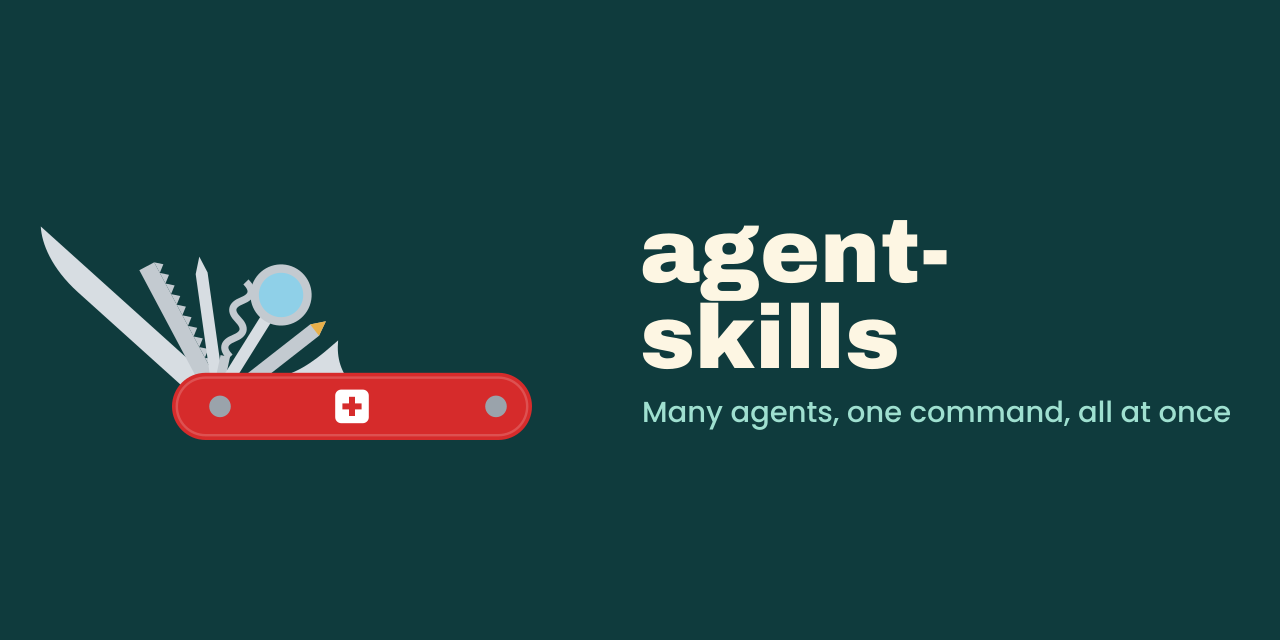
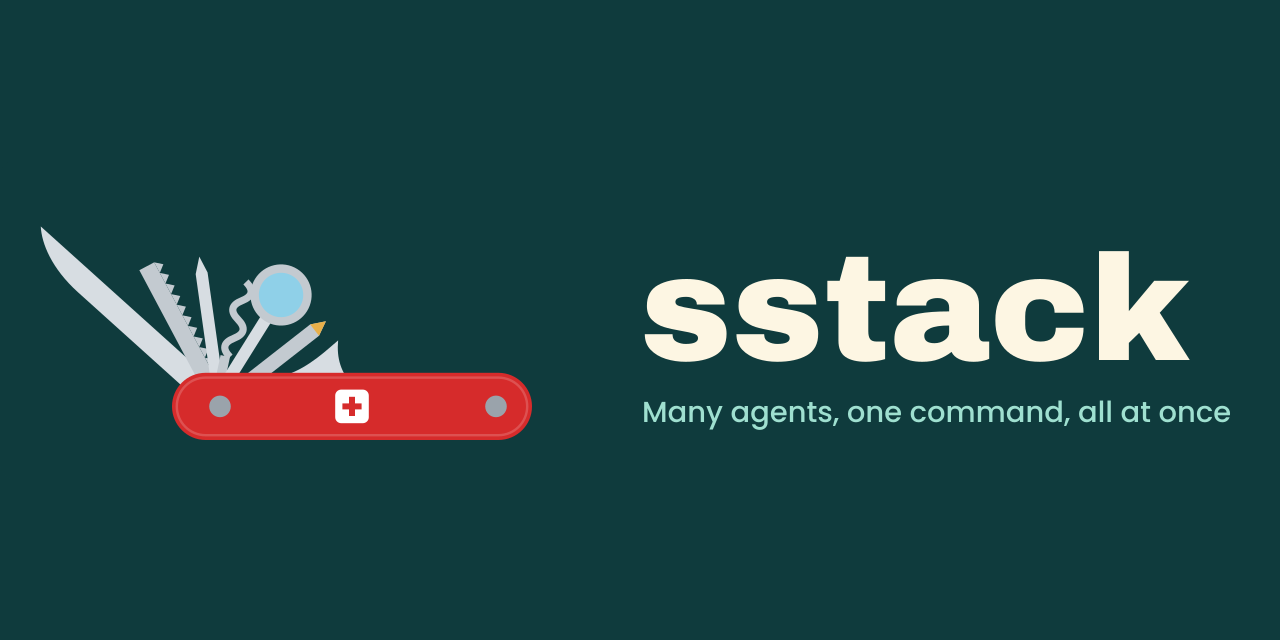
docs: rename the project to sstack and point every link at the new home
The repository moved from GeiserX/agent-skills to GeiserX/sstack. Pages project sites do not redirect, so the site URL, repo links, banner wordmark and social preview all follow the new name. The related page records the old names and links the skills shipped with akou and unsent.

Changed region(s): [[0.5, 0.3438, 0.9375, 0.5938]]

diff --git a/docs/stylesheets/theme.css b/docs/stylesheets/theme.css
@@ -1,6 +1,6 @@
 /* docs/stylesheets/theme.css: the site takes its colours from the banner.
  *
- * banner.svg draws "agent-skills" in #fdf6e3 on a #0f3b3d plate, the caption
+ * banner.svg draws "sstack" in #fdf6e3 on a #0f3b3d plate, the caption
  * in #9fe0d0, and the mark as a pocket knife with a #d62b2b handle. The
  * header and the dark page use the plate colour, links and card borders the
  * caption colour, and the one filled button the handle red. zensical.toml sets
@@ -107,7 +107,7 @@
 
 /* The home page keeps an H1 for search, screen readers and the browser tab.
    The banner under it already shows the name, so the H1 is hidden visually.
-   Use it as: # agent-skills { .as-visually-hidden } */
+   Use it as: # sstack { .as-visually-hidden } */
 .md-typeset h1.as-visually-hidden {
   position: absolute;
   width: 1px;

diff --git a/docs/usage.md b/docs/usage.md
@@ -157,14 +157,14 @@ Two skills that get an open-source repository listed where people look for it. B
 both keep a ledger (one row per place per repository) that you choose the location of, and both stop at anything
 that needs you.
 
-- [`grow-my-repo`](https://github.com/GeiserX/agent-skills/blob/main/skills/grow-my-repo/SKILL.md) writes down the repository's facts, runs a readiness check (a quick start that works in ten
+- [`grow-my-repo`](https://github.com/GeiserX/sstack/blob/main/skills/grow-my-repo/SKILL.md) writes down the repository's facts, runs a readiness check (a quick start that works in ten
   minutes, topics people search, community files, the product it replaces, how AI was used), records the 14-day
-  traffic baseline, then walks a [reference of places](https://github.com/GeiserX/agent-skills/blob/main/skills/grow-my-repo/references/places.md): GitHub itself, registries and app stores, knowledge bases,
+  traffic baseline, then walks a [reference of places](https://github.com/GeiserX/sstack/blob/main/skills/grow-my-repo/references/places.md): GitHub itself, registries and app stores, knowledge bases,
   directories, AI tooling catalogues, media, communities, funding, European catalogues and a national layer. Each
   place gets a state: done by the agent now, yours, later on a dated day, or no with the place's rule quoted. It
   sends at most one submission per curator per day, confirms each listing by fetching the page, and reads the
   traffic again seven days after each listing goes live.
-- [`submit-awesome`](https://github.com/GeiserX/agent-skills/blob/main/skills/submit-awesome/SKILL.md) finds the awesome lists that fit, checks each one three ways for an existing entry, and opens one
+- [`submit-awesome`](https://github.com/GeiserX/sstack/blob/main/skills/submit-awesome/SKILL.md) finds the awesome lists that fit, checks each one three ways for an existing entry, and opens one
   pull request per list in that list's exact format. Lists that bar AI-written or agent-opened contributions get a
   packet you can submit yourself instead.
 
@@ -179,10 +179,10 @@ your behalf.
 
 ## Pull requests and replies
 
-- [`file-pr`](https://github.com/GeiserX/agent-skills/blob/main/skills/file-pr/SKILL.md) reads the whole branch diff, checks it against the request, and opens a ready pull request (never a
+- [`file-pr`](https://github.com/GeiserX/sstack/blob/main/skills/file-pr/SKILL.md) reads the whole branch diff, checks it against the request, and opens a ready pull request (never a
   draft) whose title states the outcome and whose body opens with the problem in the requester's words. It updates
   an existing pull request instead of opening a second.
-- [`verified-reply`](https://github.com/GeiserX/agent-skills/blob/main/skills/verified-reply/SKILL.md) drafts a reply you will send as yourself: it lists every claim the reply needs, checks each
+- [`verified-reply`](https://github.com/GeiserX/sstack/blob/main/skills/verified-reply/SKILL.md) drafts a reply you will send as yourself: it lists every claim the reply needs, checks each
   against a live source, drafts two to four lines in your voice, and hands you the reply with a source per claim.
   It posts only the exact text you approve, then reads the posted item back.
 
@@ -193,7 +193,7 @@ your behalf.
 
 ## Reviving cut-off work
 
-[`revive`](https://github.com/GeiserX/agent-skills/blob/main/skills/revive/SKILL.md) runs after a usage limit, a crash, a restart or a compaction. It reads the clock and the world (the
+[`revive`](https://github.com/GeiserX/sstack/blob/main/skills/revive/SKILL.md) runs after a usage limit, a crash, a restart or a compaction. It reads the clock and the world (the
 conversation, subagents, background tasks, git, pull requests and CI), writes one ledger row per unit of work with
 its real state (done, pushed, partial, dead-clean, not started), and restarts each unfinished unit from that edge.
 Before every commit, push, pull request, merge, comment or release it checks whether that already happened.
@@ -204,10 +204,10 @@ Before every commit, push, pull request, merge, comment or release it checks whe
 
 ## Explaining and deciding
 
-- [`eli5`](https://github.com/GeiserX/agent-skills/blob/main/skills/eli5/SKILL.md) explains work, a system or a situation in two layers: a short version under 200 words, then the full story
+- [`eli5`](https://github.com/GeiserX/sstack/blob/main/skills/eli5/SKILL.md) explains work, a system or a situation in two layers: a short version under 200 words, then the full story
   in fixed sections (who does what, what each thing is, the problem, the steps taken, one scenario end to end, the
   gaps, where it stands). Real names only, no figurative language.
-- [`help-decide`](https://github.com/GeiserX/agent-skills/blob/main/skills/help-decide/SKILL.md) lays a decision out with the recommendation and the pros and cons first, then how the thing works and
+- [`help-decide`](https://github.com/GeiserX/sstack/blob/main/skills/help-decide/SKILL.md) lays a decision out with the recommendation and the pros and cons first, then how the thing works and
   what each choice changes, and ends with the question phrased so that one word answers it.
 
 Both are written to one named reader. Change the name in your installed copy.

diff --git a/docs/index.md b/docs/index.md
@@ -3,21 +3,21 @@ hide:
   - navigation
 ---
 
-# agent-skills { .as-visually-hidden }
+# sstack { .as-visually-hidden }
 
 <p align="center">
-  <img src="images/banner.svg" alt="agent-skills: many agents, one command, all at once" width="100%">
+  <img src="images/banner.svg" alt="sstack: many agents, one command, all at once" width="100%">
 </p>
 
 <p align="center">
-  <a href="https://github.com/GeiserX/agent-skills/stargazers"><img alt="GitHub Stars" src="https://img.shields.io/github/stars/GeiserX/agent-skills?style=flat-square&logo=github"></a>
-  <a href="https://github.com/GeiserX/agent-skills/releases"><img alt="Release" src="https://img.shields.io/github/v/release/GeiserX/agent-skills?style=flat-square"></a>
-  <a href="https://github.com/GeiserX/agent-skills/blob/main/LICENSE"><img alt="License: GPL-3.0-or-later" src="https://img.shields.io/github/license/GeiserX/agent-skills?style=flat-square"></a>
+  <a href="https://github.com/GeiserX/sstack/stargazers"><img alt="GitHub Stars" src="https://img.shields.io/github/stars/GeiserX/sstack?style=flat-square&logo=github"></a>
+  <a href="https://github.com/GeiserX/sstack/releases"><img alt="Release" src="https://img.shields.io/github/v/release/GeiserX/sstack?style=flat-square"></a>
+  <a href="https://github.com/GeiserX/sstack/blob/main/LICENSE"><img alt="License: GPL-3.0-or-later" src="https://img.shields.io/github/license/GeiserX/sstack?style=flat-square"></a>
 </p>
 
 ---
 
-**agent-skills** is a set of skills for [Claude Code](https://claude.com/claude-code) and [Codex](https://developers.openai.com/codex). Left alone, an agent works until its turn ends and then reviews its own change. The goal loop keeps its state outside the session, so it picks up where it stopped, and a fresh reviewer checks each slice before the next one starts. The parallel skills put several independent agents on one bug, pull request, codebase or question, and keep only the findings that hold up against the code. Other skills grow a repository, file pull requests, draft replies, recover cut-off work and explain. Start with [Getting started](getting-started.md), then [Usage](usage.md).
+**sstack** (sergio stack) is a set of skills for [Claude Code](https://claude.com/claude-code) and [Codex](https://developers.openai.com/codex). Left alone, an agent works until its turn ends and then reviews its own change. The goal loop keeps its state outside the session, so it picks up where it stopped, and a fresh reviewer checks each slice before the next one starts. The parallel skills put several independent agents on one bug, pull request, codebase or question, and keep only the findings that hold up against the code. Other skills grow a repository, file pull requests, draft replies, recover cut-off work and explain. Start with [Getting started](getting-started.md), then [Usage](usage.md).
 
 <div class="grid cards" markdown>
 
@@ -121,10 +121,10 @@ flowchart LR
 
 ## Getting help
 
-- Something broken: open an [issue](https://github.com/GeiserX/agent-skills/issues) with the skill, whether it ran in Claude Code or Codex, the version, and what it printed.
-- A security problem: follow the [security policy](https://github.com/GeiserX/agent-skills/blob/main/SECURITY.md), never a public issue.
+- Something broken: open an [issue](https://github.com/GeiserX/sstack/issues) with the skill, whether it ran in Claude Code or Codex, the version, and what it printed.
+- A security problem: follow the [security policy](https://github.com/GeiserX/sstack/blob/main/SECURITY.md), never a public issue.
 - Validating a skill, rebuilding the Codex copies and running the tests: [Development](development.md). The skills from other projects kept here, and the repository this one replaced: [Related projects](related.md).
 
 ## License
 
-agent-skills is released under the [GPL-3.0-or-later](https://github.com/GeiserX/agent-skills/blob/main/LICENSE) license. The skills under `vendor/` keep their own MIT licences.
+sstack is released under the [GPL-3.0-or-later](https://github.com/GeiserX/sstack/blob/main/LICENSE) license. The skills under `vendor/` keep their own MIT licences.

diff --git a/docs/related.md b/docs/related.md
@@ -8,13 +8,20 @@
 ln -s "$PWD/vendor/pstack/skills/<name>" ~/.claude/skills/<name>
 ```
 
-- **pstack**, from [cursor/plugins](https://github.com/cursor/plugins/tree/main/pstack) through its Claude Code port: 52 skills and 2 agents, such as `unslop`, `blast-radius` and `show-me-your-work`. The source commits, the local changes and the skills not to enable are in [vendor/pstack/PROVENANCE.md](https://github.com/GeiserX/agent-skills/blob/main/vendor/pstack/PROVENANCE.md).
-- **writing-for-agents**, one skill copied unchanged from a public skills collection. The source, the commit and the licence are in [vendor/mattpocock-skills/PROVENANCE.md](https://github.com/GeiserX/agent-skills/blob/main/vendor/mattpocock-skills/PROVENANCE.md).
-- **frontend-design**, Anthropic's skill for page and UI design, copied unchanged. The source, the commit and the licence are in [vendor/anthropic-skills/PROVENANCE.md](https://github.com/GeiserX/agent-skills/blob/main/vendor/anthropic-skills/PROVENANCE.md).
+- **pstack**, from [cursor/plugins](https://github.com/cursor/plugins/tree/main/pstack) through its Claude Code port: 52 skills and 2 agents, such as `unslop`, `blast-radius` and `show-me-your-work`. The source commits, the local changes and the skills not to enable are in [vendor/pstack/PROVENANCE.md](https://github.com/GeiserX/sstack/blob/main/vendor/pstack/PROVENANCE.md).
+- **writing-for-agents**, one skill copied unchanged from a public skills collection. The source, the commit and the licence are in [vendor/mattpocock-skills/PROVENANCE.md](https://github.com/GeiserX/sstack/blob/main/vendor/mattpocock-skills/PROVENANCE.md).
+- **frontend-design**, Anthropic's skill for page and UI design, copied unchanged. The source, the commit and the licence are in [vendor/anthropic-skills/PROVENANCE.md](https://github.com/GeiserX/sstack/blob/main/vendor/anthropic-skills/PROVENANCE.md).
+
+## Skills shipped with my other projects
+
+These skills live with the tool they drive, so they are linked here rather than copied:
+
+- [akou](https://github.com/GeiserX/akou) ships `akou` (record a call and answer questions about it while it runs, or transcribe a file) and `akou-vocab` (teach it the names and terms a recording should spell right).
+- [unsent](https://github.com/GeiserX/unsent) ships `unsent-context`, which fills in the context of the prompts you sent.
 
 ## Earlier repositories
 
-- This repository was called `claude-skills`. GitHub redirects the old URLs here.
+- This repository was called `claude-skills`, then `agent-skills` until 2026-11-07. GitHub redirects the old repository URLs here. The old documentation site at `geiserx.github.io/agent-skills` does not redirect: GitHub Pages project sites never do, so use https://geiserx.github.io/sstack/ instead.
 - [claude-code-parallel-skills](https://github.com/GeiserX/claude-code-parallel-skills) held the parallel skills before, as `/review-pr!` and the like, and needed oh-my-claudecode. It is archived; the skills now live here without the `!` and without that dependency.
 
 ## Where the skill formats are documented

diff --git a/SECURITY.md b/SECURITY.md
@@ -4,7 +4,7 @@
 
 Please do not open a public issue for a security problem.
 
-Report it privately through GitHub: https://github.com/GeiserX/agent-skills/security/advisories/new
+Report it privately through GitHub: https://github.com/GeiserX/sstack/security/advisories/new
 
 You will get an answer within 72 hours. Include what you found, how to reproduce it, and the version or commit you tested.
 
